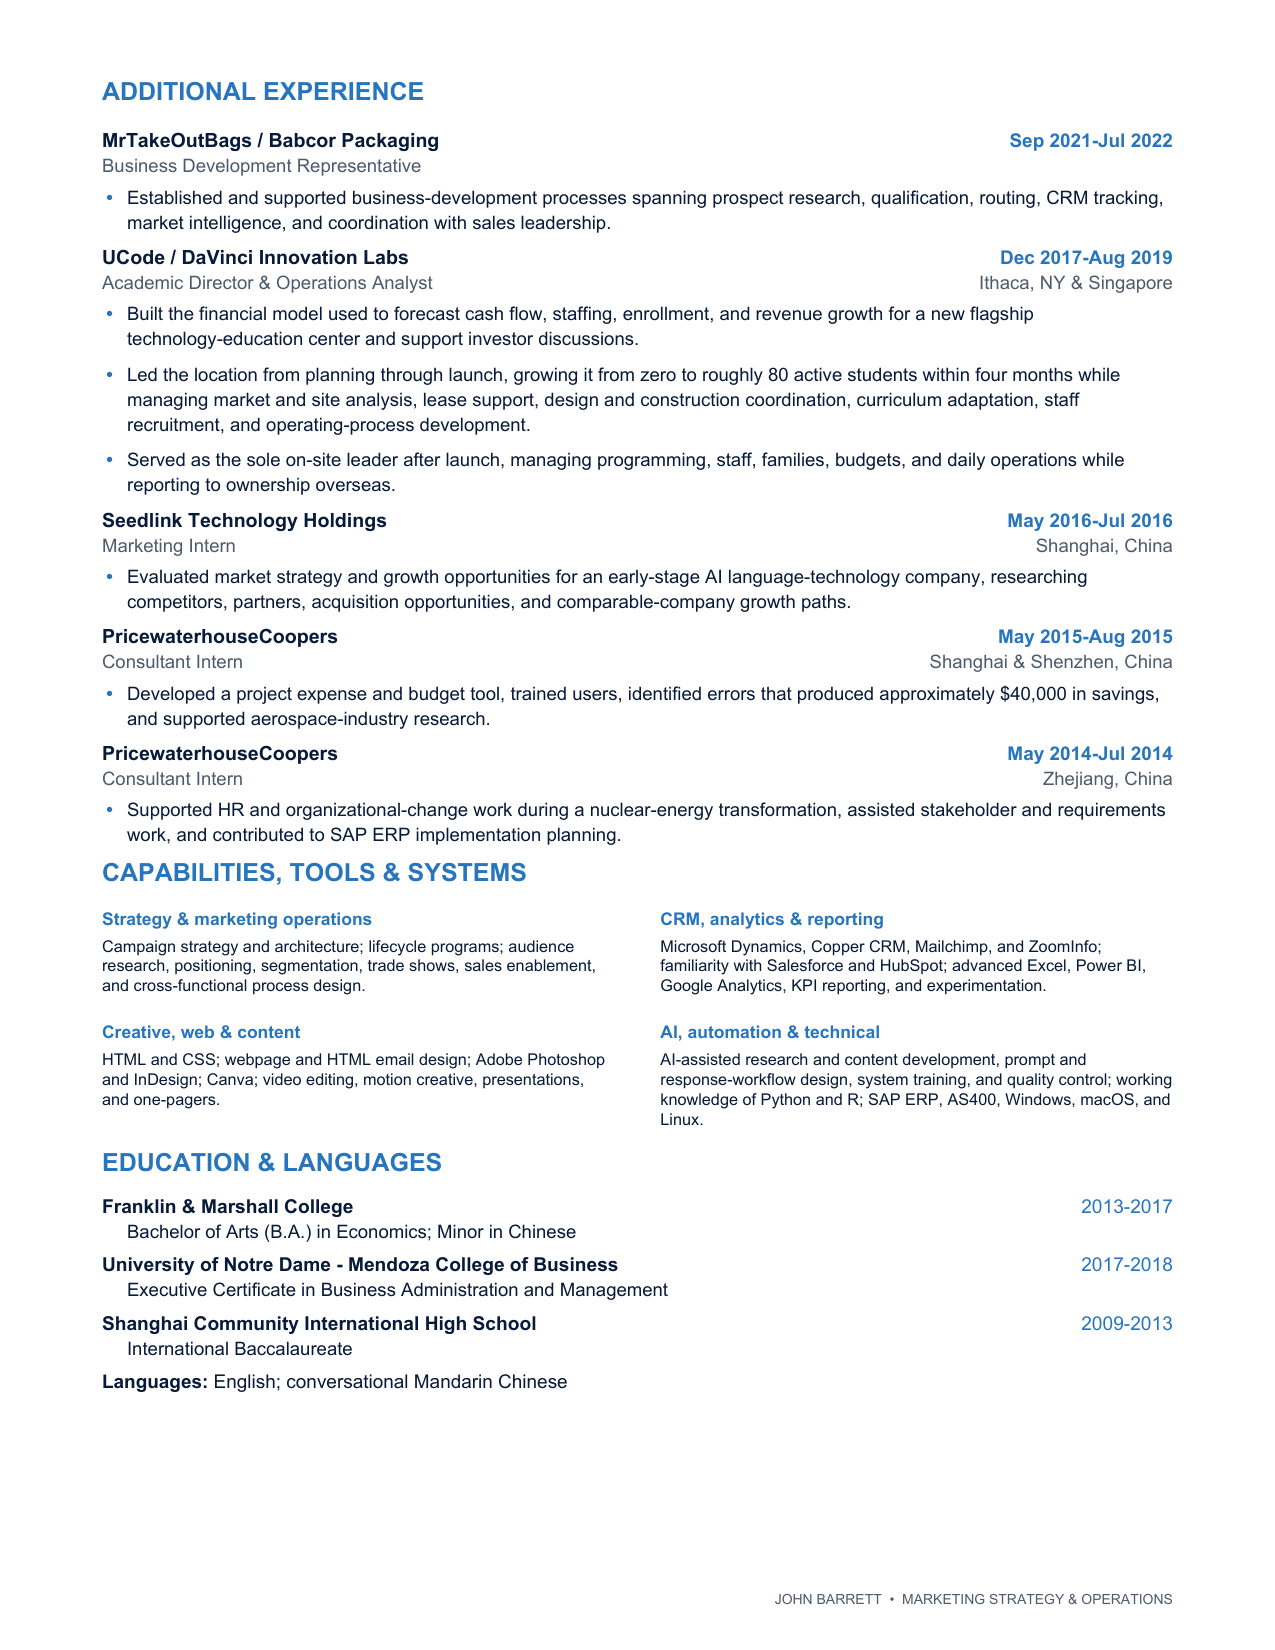
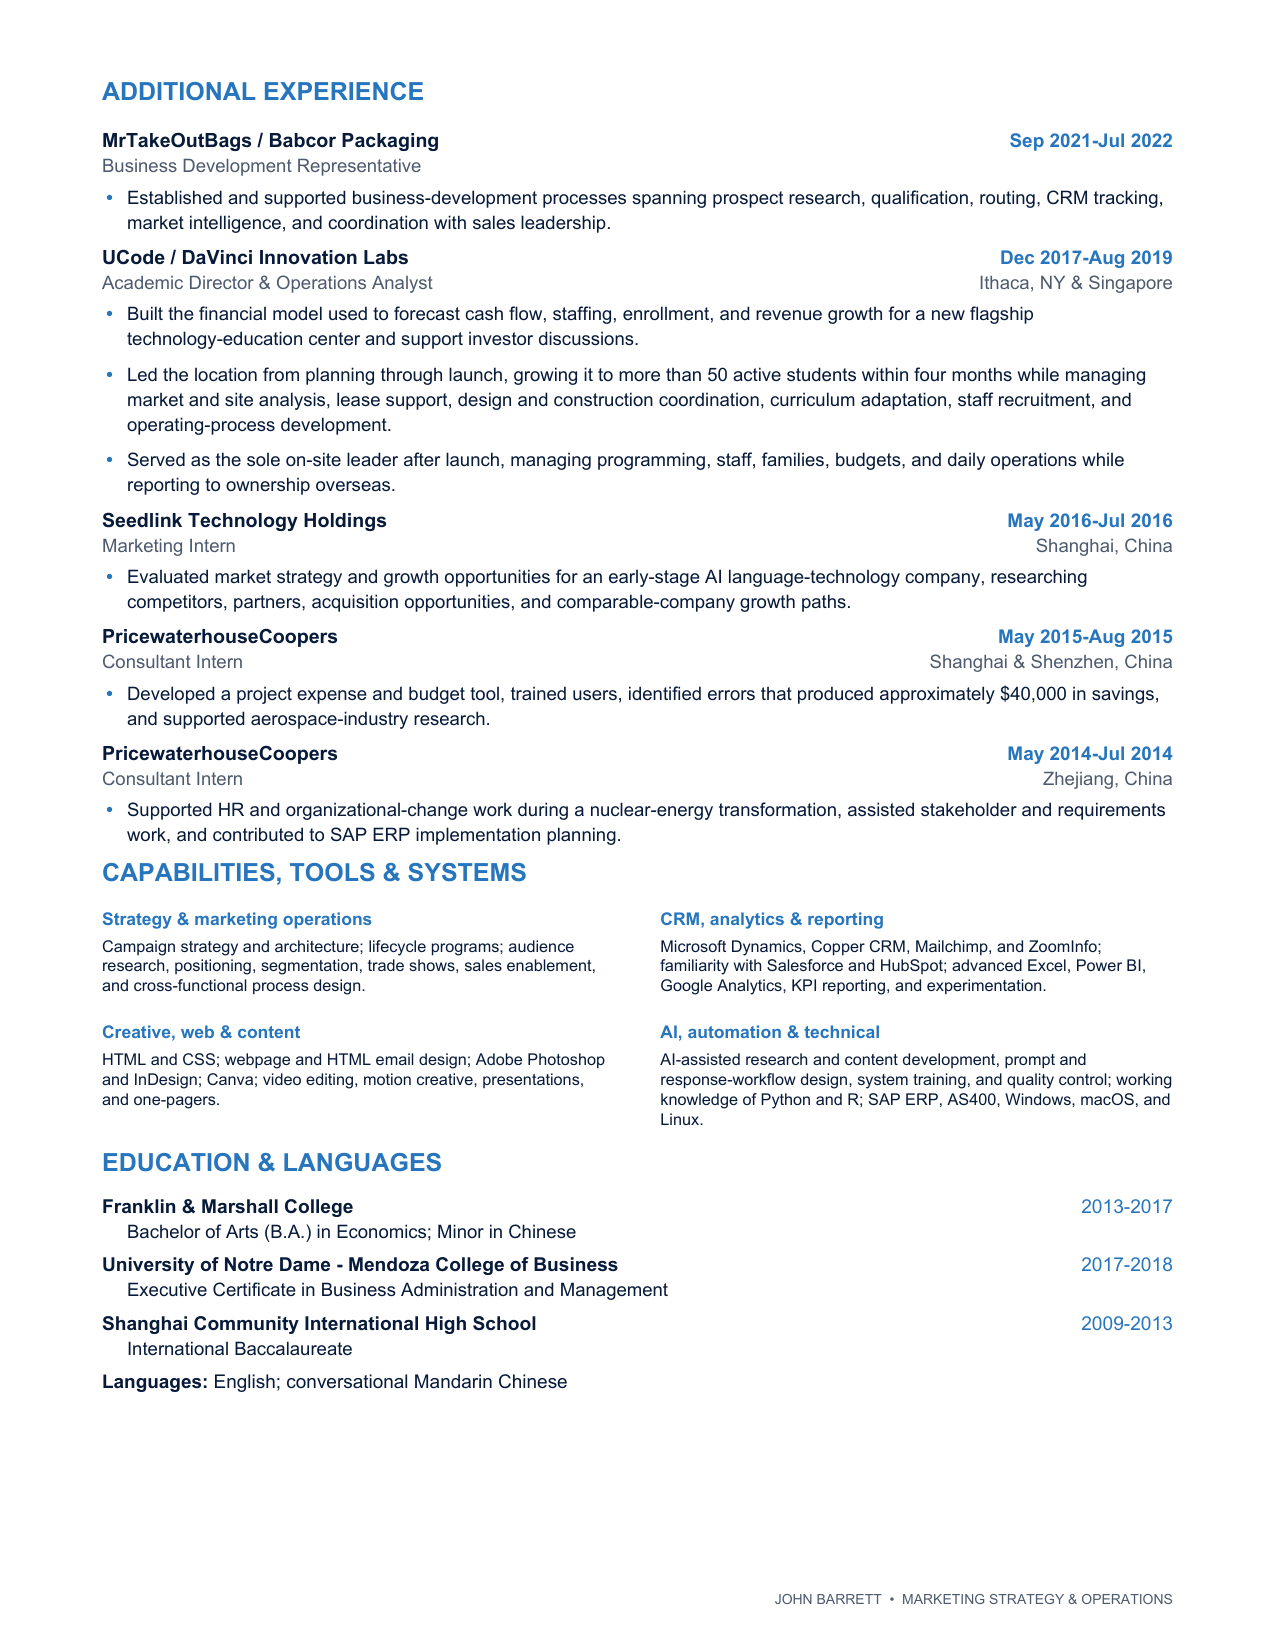
Use conservative UCode student count

Changed region(s): [[0.0918, 0.2164, 0.8871, 0.2782]]

diff --git a/resume.html b/resume.html
@@ -29,11 +29,11 @@
   <main class="resume-main">
     <header class="resume-heading">
       <div><p class="eyebrow">Experience and qualifications</p><h1>Résumé</h1></div>
-      <a class="document-download" href="assets/documents/john-barrett-resume.pdf?v=20260802-merged-skills" download>Download PDF ↓</a>
+      <a class="document-download" href="assets/documents/john-barrett-resume.pdf?v=20260802-conservative-ucode" download>Download PDF ↓</a>
     </header>
     <div class="resume-pages" aria-label="John Barrett résumé">
-      <img src="assets/documents/john-barrett-resume-page-1.png?v=20260802-merged-skills" alt="John Barrett résumé page one: summary, selected scale and results, and recent professional experience" />
-      <img src="assets/documents/john-barrett-resume-page-2.png?v=20260802-merged-skills" alt="John Barrett résumé page two: additional experience, combined capabilities and tools, education, and languages" />
+      <img src="assets/documents/john-barrett-resume-page-1.png?v=20260802-conservative-ucode" alt="John Barrett résumé page one: summary, selected scale and results, and recent professional experience" />
+      <img src="assets/documents/john-barrett-resume-page-2.png?v=20260802-conservative-ucode" alt="John Barrett résumé page two: additional experience, combined capabilities and tools, education, and languages" />
     </div>
     <nav class="document-next" aria-label="Continue exploring">
       <a href="bio.html">← Read my professional bio</a>
